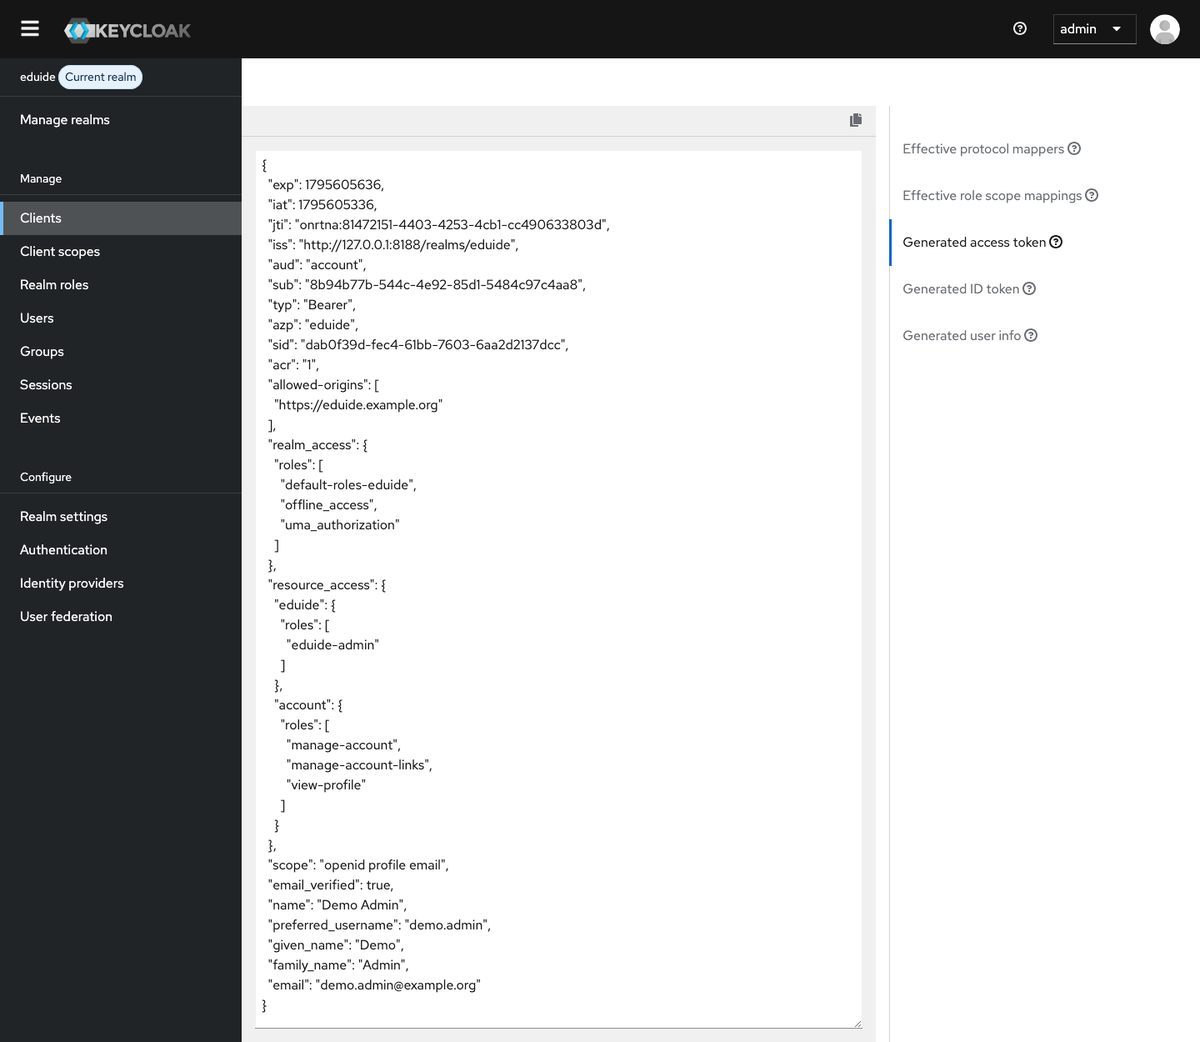
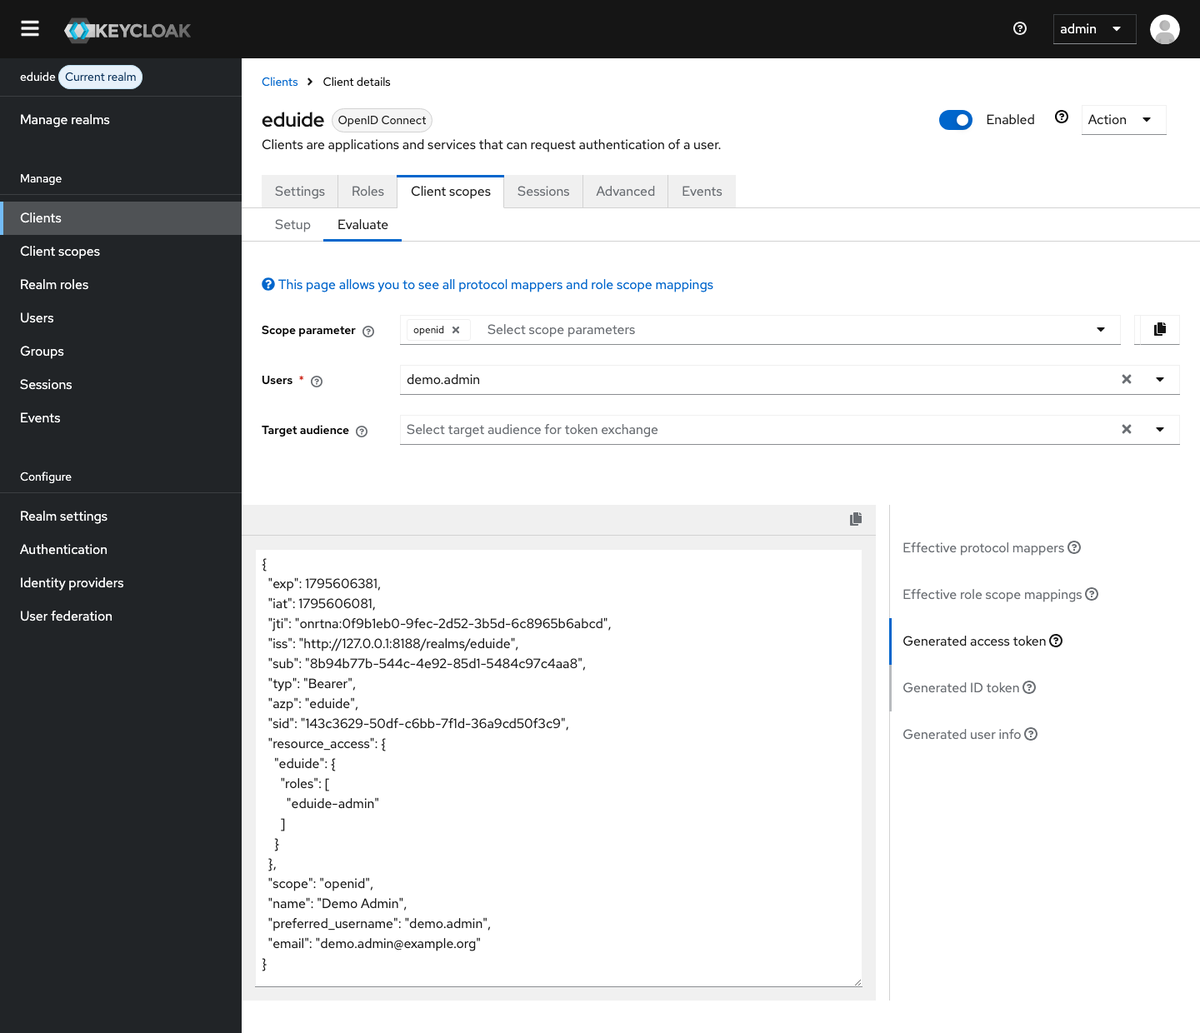
docs(admins): lean token mappers and a Keycloak import file
Section 6 now puts the four claims EduIDE reads into the dedicated scope of
the client and drops acr, roles and web-origins. profile and email stay as
optional scopes, because the gateway asks for them and Keycloak refuses the
sign-in with invalid_scope otherwise. Mentions predefined mappers as a
shortcut, with the client ID fix for client roles.

New quick setup: a partial import file that creates the client, its
mappers and scopes, the admin role and the admin group, with a warning not
to overwrite a shared client.

diff --git a/docs/admins/install/keycloak.md b/docs/admins/install/keycloak.md
@@ -1,6 +1,6 @@
 ---
 title: Setting Up Keycloak
-description: Step by step with screenshots - the realm, the eduide client, its redirect URIs, the admin role, a group, a user and the token check.
+description: An import file for the quick way, and step by step with screenshots - the realm, the eduide client, its redirect URIs, the admin role, a group, a user, lean token mappers and the token check.
 ---
 
 # Setting Up Keycloak
@@ -17,6 +17,29 @@ What the deployment takes from Keycloak:
 | Realm `eduide` | `oidc.issuerURL: https://<keycloak host>/realms/eduide` and the landing page `keycloak.realm` |
 | Client `eduide` | `oidc.clientIDs: [eduide]`, `oidc.gatewayClientID: eduide` and the landing page `keycloak.clientId` |
 | Client role `eduide-admin` | `oidc.admin: {rolePath: resource_access.eduide.roles, role: eduide-admin}` |
+
+## Quick setup with an import file
+
+If you do not want to click through steps 2 to 4 and 6, import the client instead.
+[eduide-keycloak-import.json](./eduide-keycloak-import.json) holds the client `eduide` with its redirect URIs and mappers, the role `eduide-admin` and the group `eduide-admins` with that role.
+
+1. Create the realm ([step 1](#1-create-the-realm)).
+2. Download the file and replace `eduide.example.org` and `instance.eduide.example.org` with your hosts.
+3. Open **Realm settings**, **Action**, **Partial import** and choose the file. Keep all three resources and **Fail import**.
+
+![Partial import dialog with the import file loaded: 1 group, 1 client and 1 client role selected, Fail import if a resource exists](/img/admins/keycloak/partial-import.png)
+
+4. Click **Import**. Keycloak lists the three added records.
+
+![Partial import result: client role eduide-admin, client eduide and group eduide-admins added](/img/admins/keycloak/partial-import-result.png)
+
+Then continue with [users](#5-add-users), [the token check](#7-check-the-token) and [the values](#8-fill-in-the-values).
+
+:::warning Shared client
+Several installations can share one client in one realm.
+Do not import over an existing client with **Overwrite**: it replaces the client, and the other installations lose their redirect URIs.
+Add your hosts to the existing client by hand instead.
+:::
 
 ## 1. Create the realm
 
@@ -71,6 +94,7 @@ Open the client `eduide`, tab **Roles**, click **Create role** and name it `edui
 
 A realm role works as well.
 It ends up in `realm_access.roles`, and `oidc.admin.rolePath` must say so.
+With the [mappers on the client](#6-mappers-on-the-client) it then needs a mapper of the type User Realm Role instead of User Client Role.
 
 ## 4. Give the role to a group
 
@@ -100,29 +124,63 @@ Set a password in the tab **Credentials** of the new user.
 The username becomes the owner of the user's sessions and workspaces (claim `preferred_username`, value `oidc.userClaim`).
 Do not rename users while they have workspaces.
 
-## 6. Mappers
+## 6. Mappers on the client
 
-EduIDE needs no mapper of its own.
-The default client scopes of a new client already put everything into the tokens:
+EduIDE reads only a few claims.
+Put them into the dedicated scope of the client and drop the realm-wide default scopes, so the tokens stay small:
 
-| Claim | From the default scope |
+| Token | Claims EduIDE reads |
 |---|---|
-| `preferred_username`, `name` | `profile` |
-| `email` | `email` |
-| `resource_access.eduide.roles` | `roles`, mapper `client roles` |
-| `realm_access.roles` | `roles`, mapper `realm roles` |
+| Access token (landing page, `/api/v1`) | `azp`, `preferred_username`, `name`, `email`, `resource_access.eduide.roles` |
+| ID token (landing page, gateway cookie `eduide-id`) | `aud`, `preferred_username`, `email` |
 
-The mapper `client roles` must add the roles to the access token.
-That is its default. Check it under **Client scopes**, `roles`, tab **Mappers**, `client roles`.
+Open the client `eduide`, tab **Client scopes**, and the scope `eduide-dedicated`.
+Click **Configure a new mapper** (later **Add mapper**, **By configuration**) and create four mappers:
 
-![Mapper client roles of the client scope roles: token claim name resource_access.${client_id}.roles, Add to access token on](/img/admins/keycloak/client-roles-mapper.png)
+| Mapper type | Name | Settings | ID token | Access token | Userinfo |
+|---|---|---|---|---|---|
+| User Property | `username` | Property `username`, token claim name `preferred_username` | On | On | Off |
+| User Property | `email` | Property `email`, token claim name `email` | On | On | Off |
+| User's full name | `full name` | - | Off | On | Off |
+| User Client Role | `client roles` | Client ID `eduide`, multivalued, token claim name `resource_access.${client_id}.roles` | Off | On | Off |
+
+![Mapper username of the type User Property: property username, token claim name preferred_username, ID token and access token on, userinfo off](/img/admins/keycloak/mapper-username.png)
+
+![Mapper client roles of the type User Client Role: client ID eduide, multivalued, token claim name for the client roles under resource_access, only the access token on](/img/admins/keycloak/mapper-client-roles.png)
+
+**Add predefined mapper** (later **Add mapper**, **From predefined mappers**) is a shortcut.
+Select `username`, `email`, `full name` and `client roles` and click **Add**.
+Then open `client roles` and set **Client ID** to `eduide`. Without it the roles of every client, for example `account`, land in the token.
+The predefined mappers also fill the userinfo and put `name` into the ID token. That costs a few bytes and does no harm.
+
+The dedicated scope then holds the four mappers.
+
+![Mappers tab of eduide-dedicated with full name, email, username and client roles](/img/admins/keycloak/dedicated-mappers.png)
+
+Back in the tab **Client scopes** of the client, change the assigned scopes:
+
+| Scope | Assigned type | Why |
+|---|---|---|
+| `basic` | Default | Adds `sub`. Keycloak needs it. |
+| `profile`, `email` | Optional | The gateway asks for `openid profile email`. Without the two scopes Keycloak refuses its sign-in with `invalid_scope`. As optional scopes they reach only the gateway's tokens. |
+| `acr`, `roles`, `web-origins` | Remove | The mappers above replace `roles`. Keycloak answers CORS from the web origins of the client, not from `web-origins`. |
+
+Leave the other optional scopes alone. Nobody asks for them.
+
+![Client scopes of eduide: eduide-dedicated, basic as Default, email and profile as Optional, no acr, roles or web-origins](/img/admins/keycloak/client-scopes-lean.png)
+
+On a local Keycloak 26 this shrinks the access token of the landing page from about 1400 to 1000 bytes for a user with one role.
+Users with many roles gain more, because only the roles of `eduide` remain.
+
+If you skip this step, the default scopes add the same claims and EduIDE works as well.
+The admin role then sits in `resource_access.eduide.roles` through the scope `roles`.
 
 ## 7. Check the token
 
 Keycloak shows the tokens of a user without a sign-in.
 Open the client `eduide`, tab **Client scopes**, sub tab **Evaluate**, choose the user and open **Generated access token**.
 
-![Generated access token of demo.admin: azp eduide, resource_access.eduide.roles with eduide-admin, preferred_username, name and email](/img/admins/keycloak/evaluate-access-token.png)
+![Generated access token of demo.admin with only sub, azp eduide, resource_access.eduide.roles with eduide-admin, name, preferred_username and email](/img/admins/keycloak/evaluate-access-token.png)
 
 Check:
 
@@ -130,7 +188,7 @@ Check:
 - `resource_access.eduide.roles` contains `eduide-admin` for admins.
 - `preferred_username`, `name` and `email` are present.
 
-**Generated ID token** must show `aud` `eduide`. authz checks the ID token of the gateway against `oidc.gatewayClientID`.
+**Generated ID token** must show `aud` `eduide`, `preferred_username` and `email`. authz checks the ID token of the gateway against `oidc.gatewayClientID` and reads the owner from it.
 
 ## 8. Fill in the values
 
@@ -148,7 +206,7 @@ Then set the values from the table at the top and continue with [Installing EduI
 A second, confidential client for the gateway lets Keycloak check the gateway's secret.
 It is optional.
 
-1. Create a client, for example `eduide-gateway`, with **Client authentication** on and only **Standard flow**.
+1. Create a client, for example `eduide-gateway`, with **Client authentication** on and only **Standard flow**. For small tokens give it the mappers `username` and `email` and the same scope setup as `eduide`.
 2. Give it the valid redirect URI `https://instance.eduide.example.org/oauth2/callback` and no web origin.
 3. Copy the secret from its tab **Credentials** into a file and create `eduide-oidc` from it, as above.
 4. Remove the instance redirect URI from the client `eduide`.

diff --git a/docs/admins/platform/access-control.md b/docs/admins/platform/access-control.md
@@ -38,7 +38,7 @@ The admin API is off until you configure a role. Without it every admin route an
 
 1. Create the role in Keycloak. Realm role: Realm roles, Create role, name `eduide-admin`. Client role: Clients, the landing page client, Roles, Create role, name `eduide-admin`.
 2. Assign it to users, or to a group and add users to the group.
-3. Make it appear in the access token. A realm role is in `realm_access.roles` by default. A client role is in `resource_access.<client>.roles` once the client scope `roles` is assigned to the landing page client with the "client roles" mapper enabled for access tokens. Decode a token to check.
+3. Make it appear in the access token. A realm role is in `realm_access.roles` by default. A client role is in `resource_access.<client>.roles` once the client scope `roles` is assigned to the landing page client with the "client roles" mapper enabled for access tokens, or once the client has its own "User Client Role" mapper ([lean tokens](../install/keycloak.md#6-mappers-on-the-client)). Decode a token to check.
 4. Set it in the values:
 
 ```yaml

diff --git a/docs/admins/install/installing.md b/docs/admins/install/installing.md
@@ -172,7 +172,7 @@ The landing page has no secret, so the shared client must be public (**Client au
 Envoy Gateway still requires a secret: `eduide-oidc` must hold a non-empty `client-secret`, which Keycloak does not check for a public client.
 A separate confidential gateway client, for example `eduide-gateway`, makes Keycloak check it. It is optional, see [Separate gateway client](keycloak.md#separate-gateway-client).
 
-The tokens must carry the claim named in `oidc.userClaim` (default `preferred_username`), plus `name` and `email`. The default client scopes of Keycloak add them.
+The tokens must carry the claim named in `oidc.userClaim` (default `preferred_username`), plus `name` and `email`. The default client scopes of Keycloak add them; [mappers on the client](keycloak.md#6-mappers-on-the-client) keep the tokens smaller.
 Some identity providers speak only TLS curves that Envoy does not offer for upstream TLS.
 The chart has an optional TLS bridge for that case (`oidcBridge.enabled` and `oidc.providerBackendRefs`); check its `values.yaml`.
 
